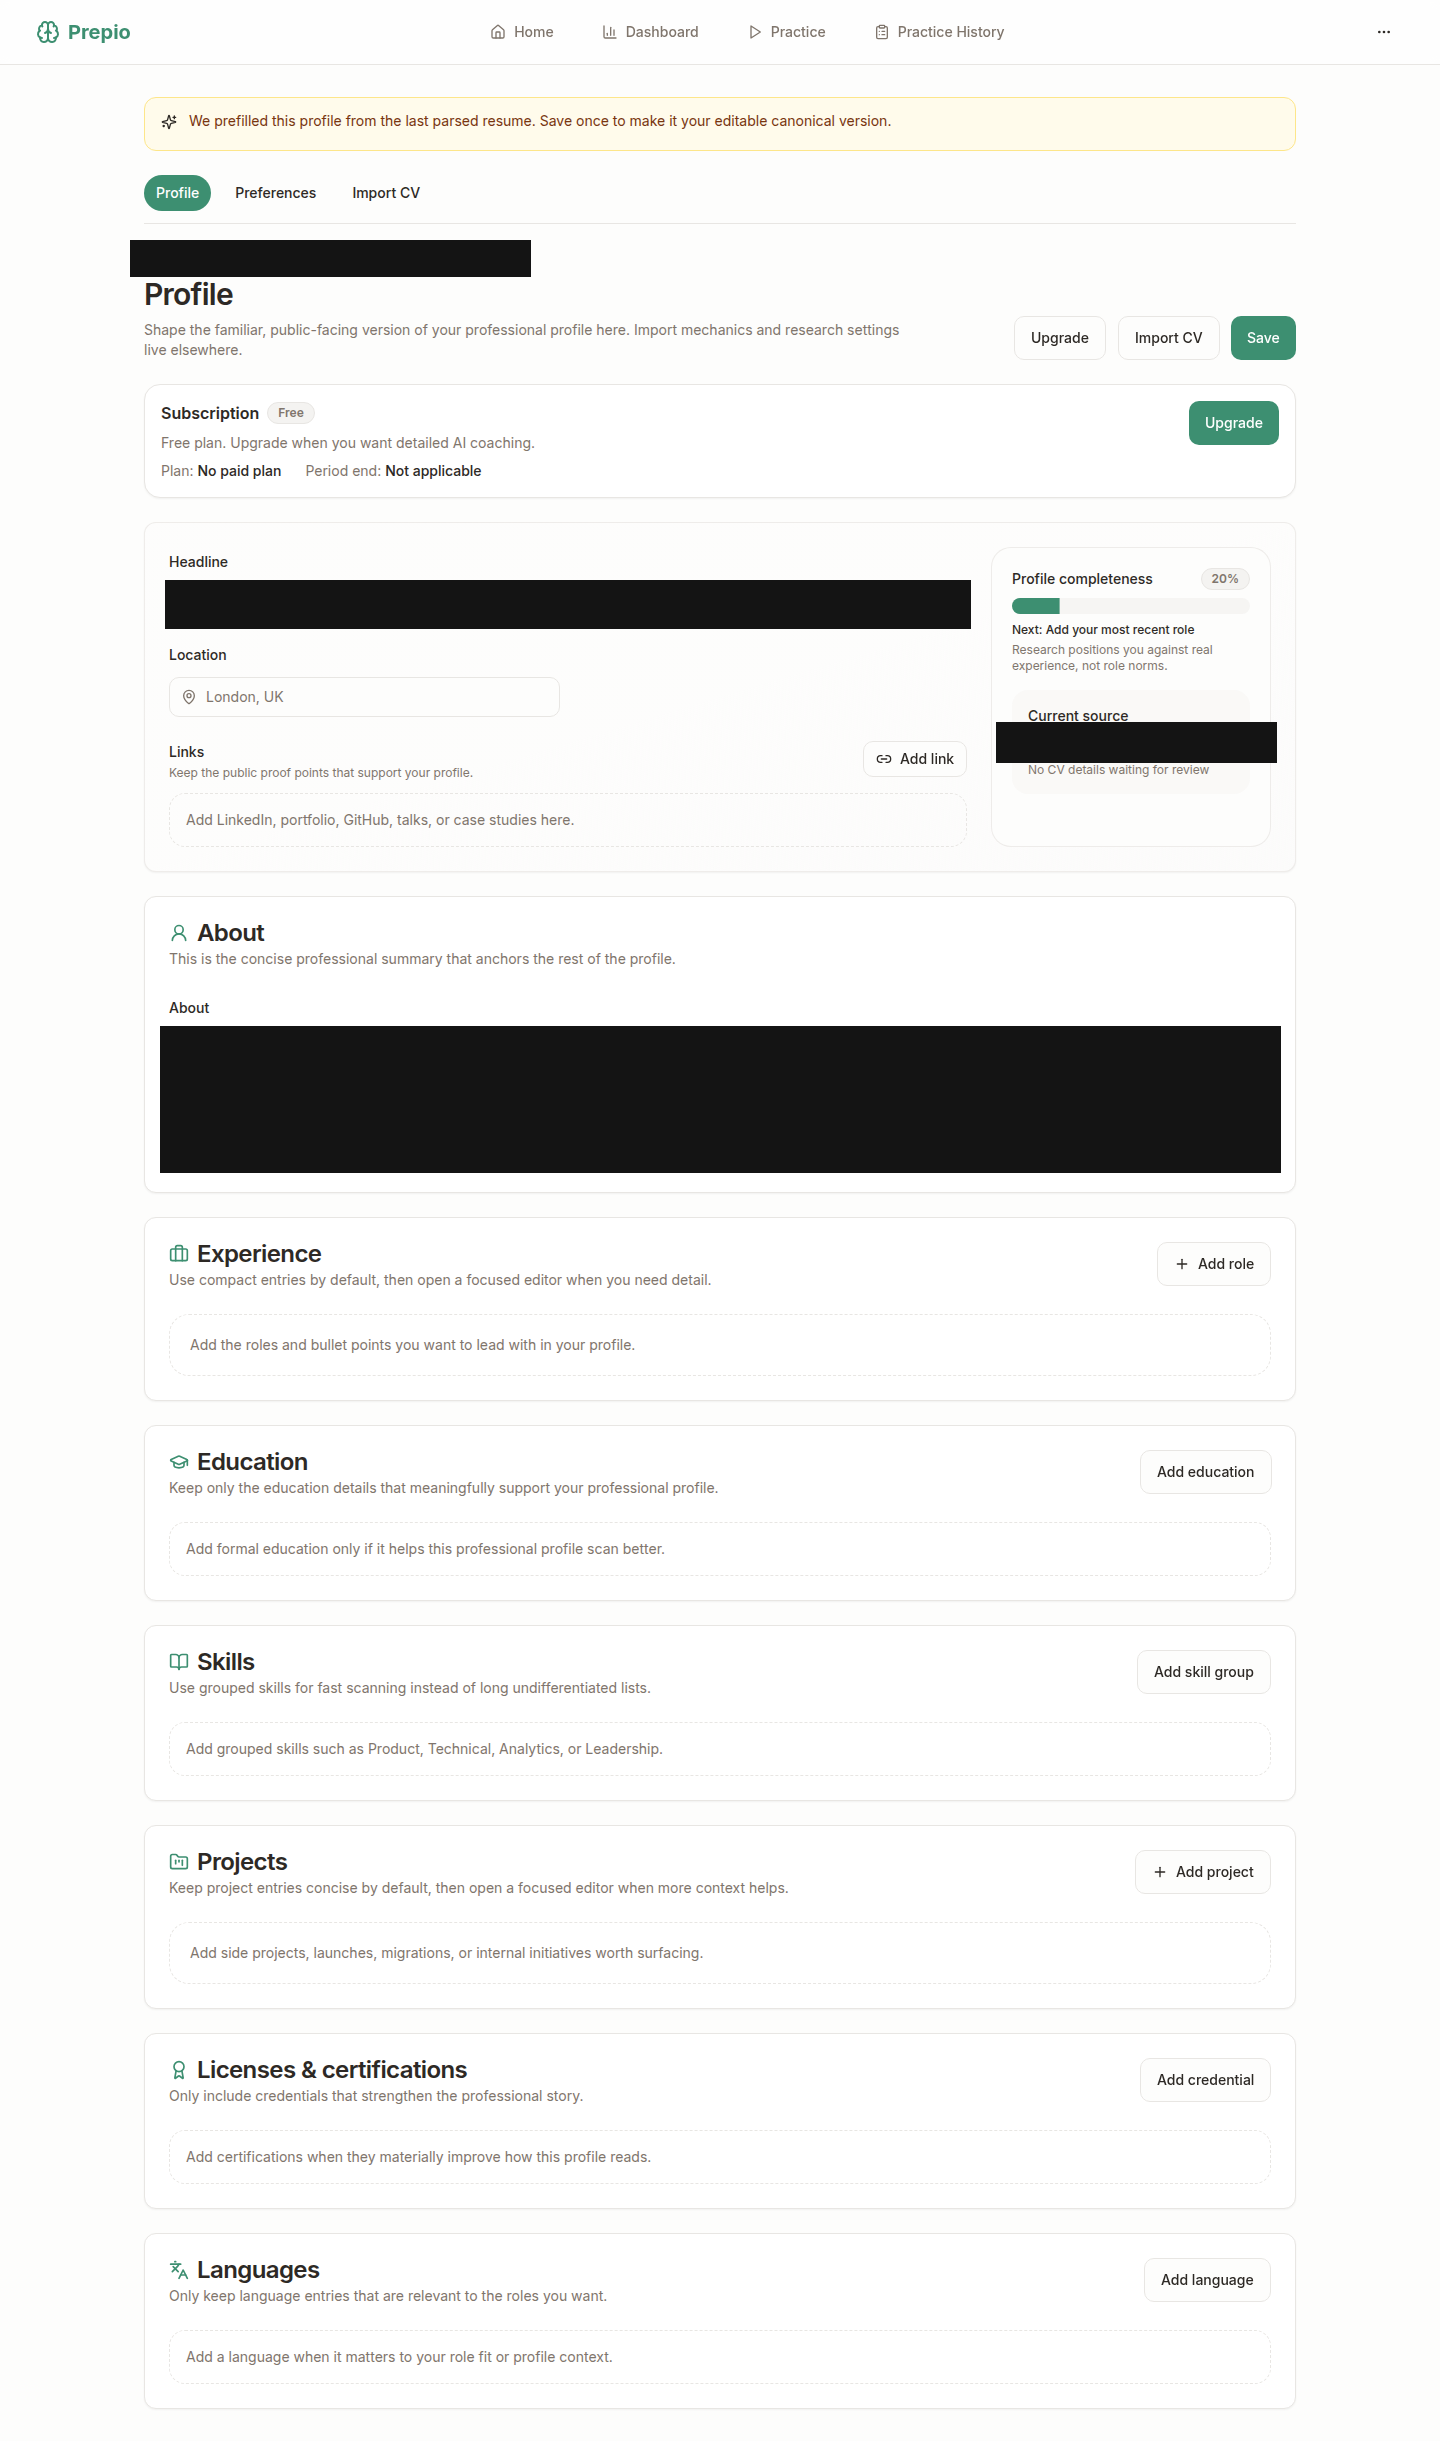
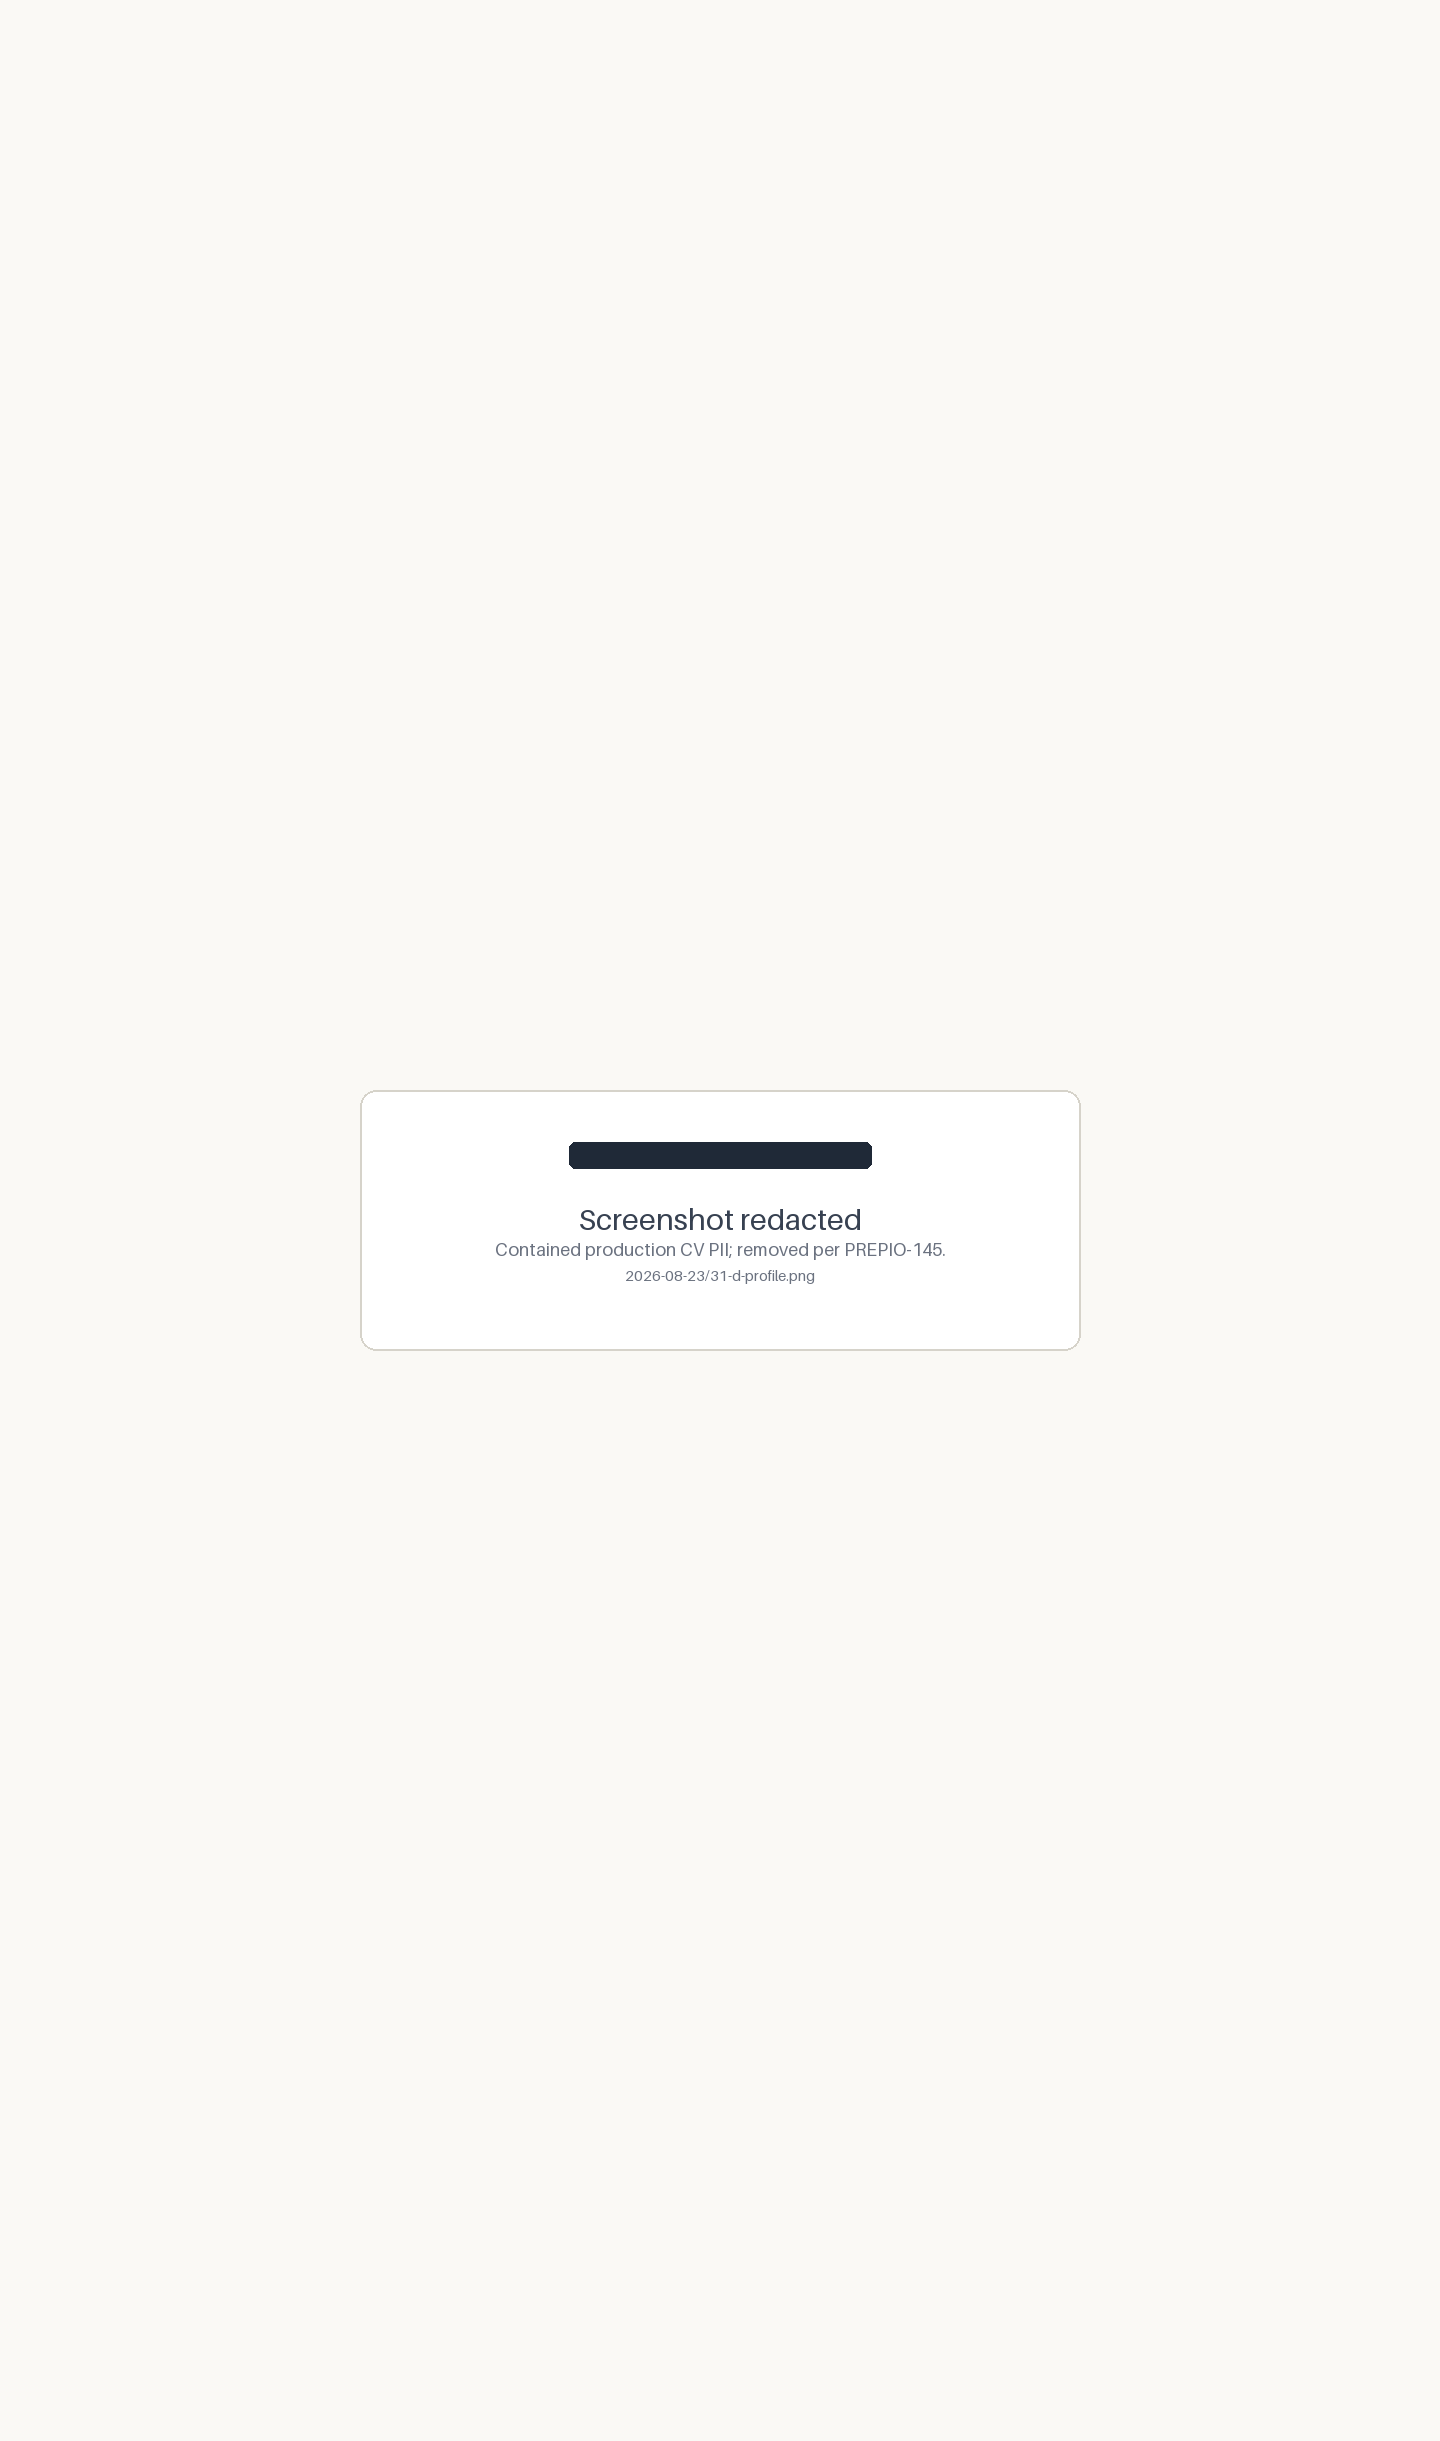
docs(audits): cover every CV-derived field; redact residual location shot (Codex P1)
The capture guidance enumerated specific regions (About, filename), which read
as exhaustive and would leave other CV-derived fields — headline, location,
links, experience — visible on a populated /profile. Rewrite it to treat every
CV-derived field as PII and prefer a full-image placeholder (which cannot miss
a field) over per-region black bars.

Also replace 2026-08-23/31-d-profile.png, whose partial black bars left the
candidate location "London, UK" visible between the covers, with a full-image
placeholder.

Claude-Session: https://claude.ai/code/session_018Ay2Zj7tVEikjkiA99xaWK

diff --git a/docs/audits/UX_REVIEW_ROUTINE.md b/docs/audits/UX_REVIEW_ROUTINE.md
@@ -44,21 +44,24 @@ specific route could not be captured.
 ## Captured evidence must not leak PII
 
 Screenshots of any surface that renders a loaded CV expose real résumé PII and
-must never be committed unredacted. The high-risk surfaces are `/profile` (the
-"About" block, the `Current source: <filename>` line, and the sidebar source
-box) and `/new-interview` (the "Add your CV" textarea once a CV is loaded). Note
-that the CV *filename* is itself PII — it embeds the candidate's name — so the
-`Current source` line has to be covered too, not just the free-text blocks.
+must never be committed unredacted. On `/profile` a populated imported CV drives
+*many* fields — the headline (employment history), location, profile links, the
+"About" block, experience, education, projects, licences/credentials, and the
+`Current source: <filename>` line (the filename is itself PII: it embeds the
+candidate's name). `/new-interview` renders the same CV in the "Add your CV"
+textarea. Treat **every** CV-derived field as PII, not just the free-text blocks
+— location and headline count.
 
 Before committing evidence from these surfaces, do one of:
 
 - Capture with a throwaway account that has no real CV loaded, or
-- Cover the About block, the CV textarea, and every `Current source` filename
-  with an **opaque, flattened** redaction before saving the PNG — a solid black
-  bar over the region, or a full-image placeholder. **Do not blur.** Blur (and
-  pixelation) on small high-contrast text is often reversible or still legible,
-  so it can leave the exact PII recoverable; only an irreversible opaque cover
-  is acceptable.
+- Replace the whole image with an opaque placeholder (**preferred** — a
+  full-image cover cannot miss a field), or cover **every** populated CV-derived
+  field with a solid black bar. A partial pass that bars the About block but
+  leaves the headline, location, or links readable still publishes PII, so when
+  in doubt replace the entire image. **Do not blur** — blur and pixelation on
+  small high-contrast text are often reversible or still legible; only an
+  irreversible opaque cover is acceptable.
 
 The same rule applies to the report **prose**, not just the images: do not
 transcribe the CV filename, name, or contact details into the note body when
